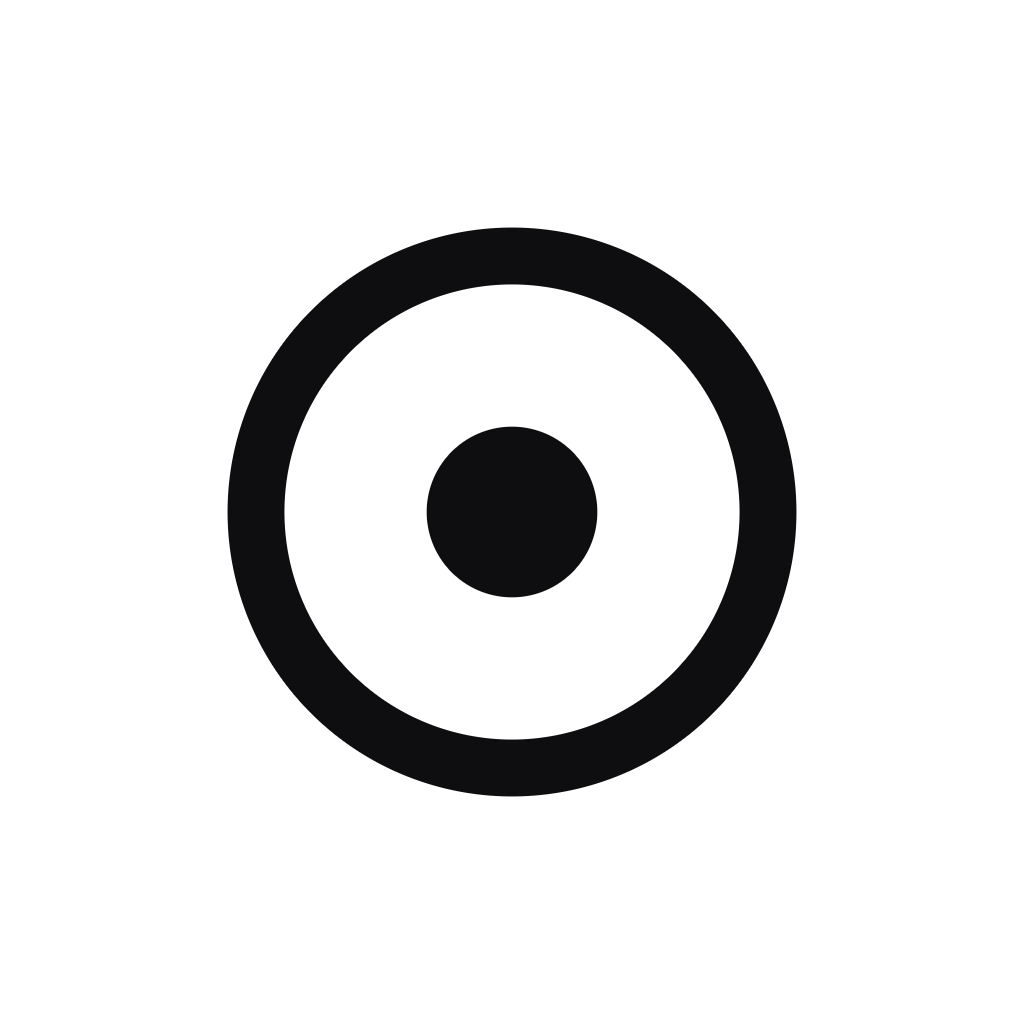
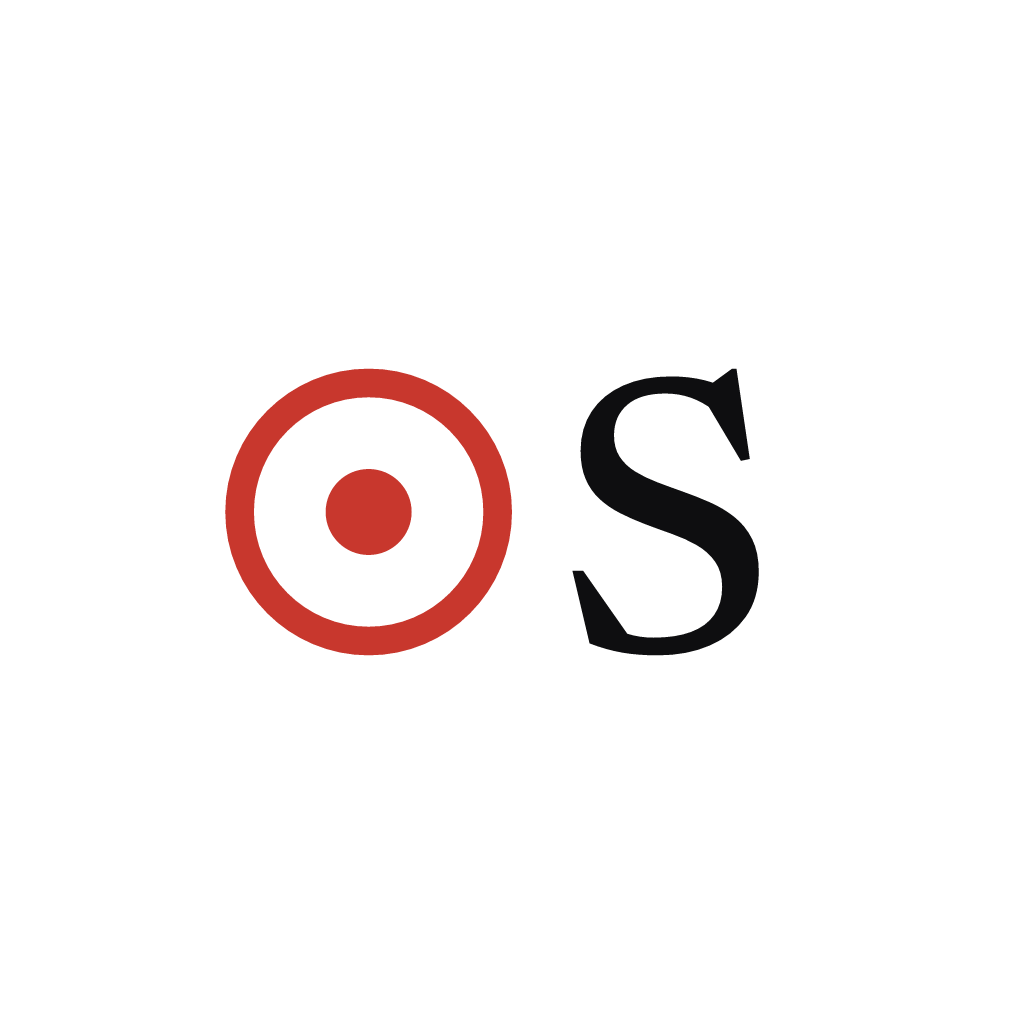
feat: regenerate Switch Companion placeholder artwork

Changed region(s): [[0.2188, 0.2188, 0.7812, 0.7812]]

diff --git a/apps/switch-companion/app.config.ts b/apps/switch-companion/app.config.ts
@@ -45,6 +45,7 @@ export default (context: ConfigContext): ExpoConfig => {
       ],
       adaptiveIcon: {
         backgroundColor: settings.branding.assets.androidAdaptiveIcon.background,
+        backgroundImage: settings.branding.assets.androidAdaptiveIcon.backgroundImage,
         foregroundImage: settings.branding.assets.androidAdaptiveIcon.foreground,
         monochromeImage: settings.branding.assets.androidAdaptiveIcon.monochrome,
       },

diff --git a/apps/switch-companion/app.settings.ts b/apps/switch-companion/app.settings.ts
@@ -17,6 +17,7 @@ const settings: AppSettings = {
       androidAdaptiveIcon: {
         foreground: './assets/images/android-icon-foreground.png',
         monochrome: './assets/images/android-icon-monochrome.png',
+        backgroundImage: './assets/images/android-icon-background.png',
         background: '#F7F6F2',
       },
       splash: {

diff --git a/apps/switch-companion/README.md b/apps/switch-companion/README.md
@@ -1,0 +1,33 @@
+# Switch Companion
+
+Temporary display name, store package IDs and URL scheme come from `app.settings.ts`.
+The package name is the workspace selector; the folder is the scaffold slug.
+AI and analytics are enabled with placeholder service configuration tracked in #94.
+Reminders and payments are disabled.
+
+The placeholder Mark and Newsreader S assets are generated from app settings.
+After changing the name or colors, run `pnpm app:assets switch-companion` from the
+workspace root. Final icons and splash artwork can replace the PNGs at those same
+paths without changing code. Do not regenerate after replacing them manually.
+
+Initialize EAS manually (no EAS project was created by this task):
+
+```bash
+cd apps/switch-companion
+pnpm dlx eas-cli@24.9.0 project:init
+```
+
+Copy the owner/project ID into `app.settings.ts`, then run `pnpm eas:config` from
+the workspace root. Build the iOS simulator development client from the app folder:
+`pnpm dlx eas-cli@24.9.0 build --profile development --platform ios`.
+
+Check from the workspace root:
+
+```bash
+pnpm typecheck
+pnpm lint
+pnpm eas:config --check
+pnpm --filter switch-companion start
+```
+
+No device or Maestro runs were performed for the scaffold PR.
